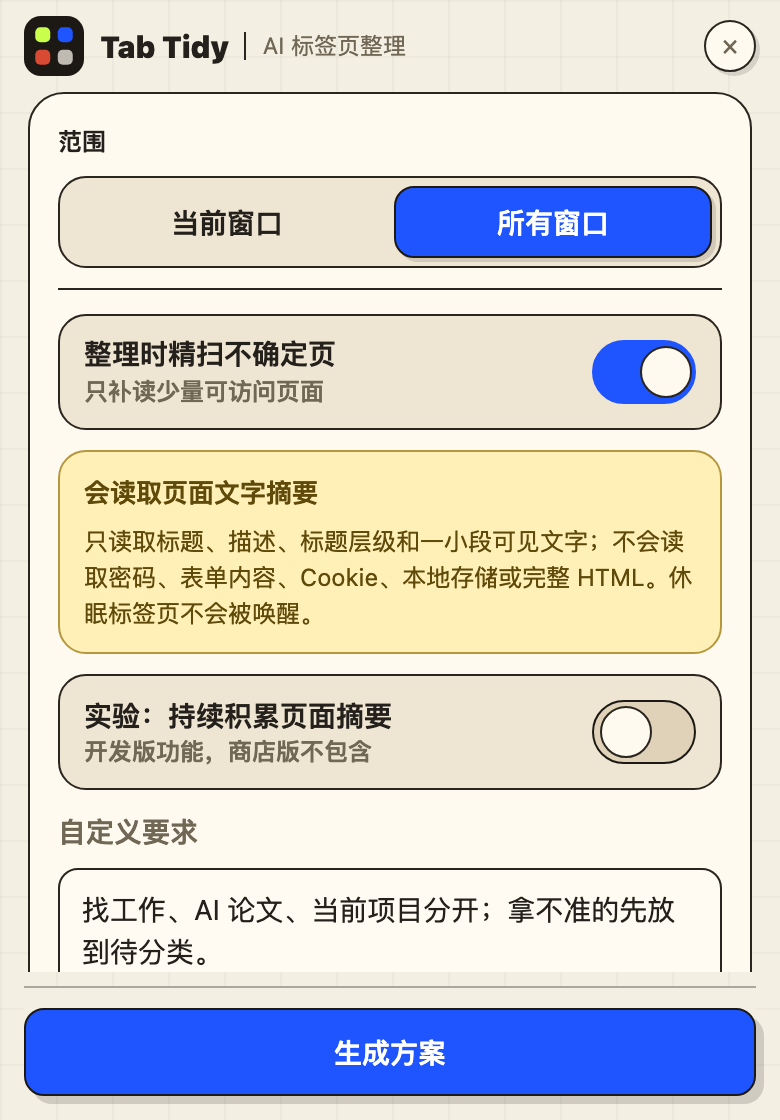
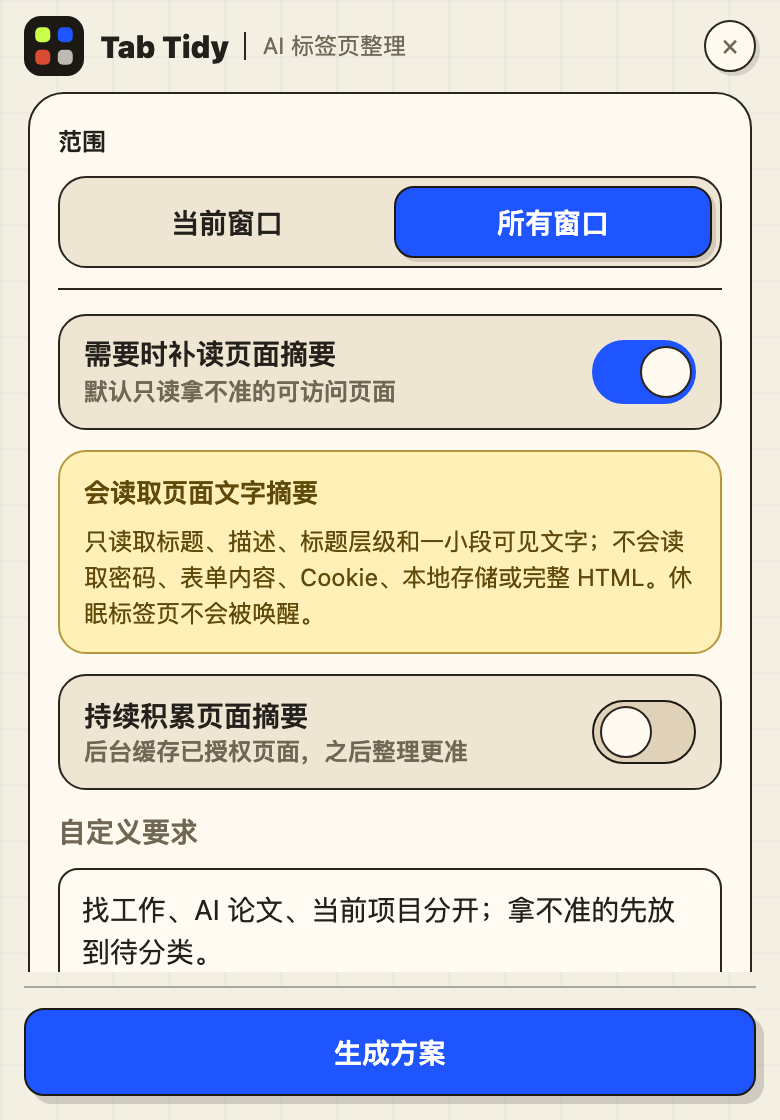
fix: make page summary copy product-facing
Replace developer-facing page-summary labels with consumer-facing behavior copy. Clarify that the advanced page-summary control changes the read depth, update progress wording to use 已读, and refresh README screenshots plus smoke coverage so internal build-channel language does not leak into the popup.

Changed region(s): [[0.0923, 0.2812, 0.5231, 0.375], [0.0923, 0.625, 0.6154, 0.6875]]

diff --git a/src/sidepanel/index.html b/src/sidepanel/index.html
@@ -49,8 +49,8 @@
           <div class="preferences-panel">
             <label class="switch-row emphasis-toggle content-access-feature">
               <span>
-                <strong>整理时精扫不确定页</strong>
-                <small>只补读少量可访问页面</small>
+                <strong>需要时补读页面摘要</strong>
+                <small>默认只读拿不准的可访问页面</small>
               </span>
               <input id="ackSampling" type="checkbox" />
             </label>
@@ -60,17 +60,17 @@
               <p>只读取标题、描述、标题层级和一小段可见文字；不会读取密码、表单内容、Cookie、本地存储或完整 HTML。休眠标签页不会被唤醒。</p>
             </div>
 
-            <label class="switch-row emphasis-toggle content-access-feature experimental-toggle">
+            <label class="switch-row emphasis-toggle content-access-feature continuous-summary-toggle">
               <span>
-                <strong>实验：持续积累页面摘要</strong>
-                <small>开发版功能，商店版不包含</small>
+                <strong>持续积累页面摘要</strong>
+                <small>后台缓存已授权页面，之后整理更准</small>
               </span>
               <input id="continuousPageSummaries" type="checkbox" />
             </label>
 
             <div id="continuousSummaryRisk" class="risk content-access-feature" hidden>
-              <strong>实验性长期 agent</strong>
-              <p>开启后会请求一次性网页读取权限。之后只在已授权、未休眠、非无痕页面上静默缓存短摘要；不会主动唤醒大量标签页。</p>
+              <strong>会在后台保存短摘要</strong>
+              <p>开启后会请求一次性网页读取权限；之后只在已授权、未休眠、非无痕页面上保存短摘要，方便下次更快、更准地分类。不会主动唤醒标签页。</p>
             </div>
 
             <div class="field prompt-field">
@@ -154,11 +154,11 @@
         </div>
 
         <div class="field content-access-feature">
-          <label for="pageContextMode">页面摘要范围</label>
+          <label for="pageContextMode">补读范围</label>
           <select id="pageContextMode">
-            <option value="off">关闭</option>
-            <option value="ambiguous_with_permission">只读取不确定页面</option>
-            <option value="all_granted_origins">尽量读取可授权页面</option>
+            <option value="off">不补读页面摘要</option>
+            <option value="ambiguous_with_permission">默认：只读拿不准的页面</option>
+            <option value="all_granted_origins">尽量读取已授权页面</option>
           </select>
         </div>
 

diff --git a/src/core/controller.js b/src/core/controller.js
@@ -637,14 +637,14 @@ async function attachPageSamples(chromeApi, inventory, settings, options = {}) {
   await options.onProgress?.({
     phase: "sampling",
     progress: 20 + Math.round((completed / candidates.length) * 16),
-    message: `正在读取页面摘要 ${completed}/${candidates.length}，已读到 ${sampledOk} 个`
+    message: `正在读取页面摘要 ${completed}/${candidates.length}，已读 ${sampledOk} 个`
   });
 
   const sampleOne = async (tab) => {
     await options.onProgress?.({
       phase: "sampling",
       progress: 20 + Math.round((completed / candidates.length) * 16),
-      message: `正在读取页面摘要 ${completed}/${candidates.length}，已读到 ${sampledOk} 个`
+      message: `正在读取页面摘要 ${completed}/${candidates.length}，已读 ${sampledOk} 个`
     });
     const liveTab = await getLiveTab(chromeApi, tab.tabId);
     const sampleResult = liveTab
@@ -670,7 +670,7 @@ async function attachPageSamples(chromeApi, inventory, settings, options = {}) {
     await options.onProgress?.({
       phase: "sampling",
       progress: 20 + Math.round((completed / candidates.length) * 16),
-      message: `正在读取页面摘要 ${completed}/${candidates.length}，已读到 ${sampledOk} 个`
+      message: `正在读取页面摘要 ${completed}/${candidates.length}，已读 ${sampledOk} 个`
     });
   };
 
@@ -692,8 +692,8 @@ async function attachPageSamples(chromeApi, inventory, settings, options = {}) {
     phase: "sampling",
     progress: 36,
     message: sampledBlocked
-      ? `页面摘要：读到 ${sampledOk}/${candidates.length} 个，${sampledBlocked} 个只参考标题`
-      : `页面摘要：读到 ${sampledOk}/${candidates.length} 个`
+      ? `页面摘要：已读 ${sampledOk}/${candidates.length} 个，${sampledBlocked} 个只参考标题`
+      : `页面摘要：已读 ${sampledOk}/${candidates.length} 个`
   });
   return inventory;
 }

diff --git a/src/sidepanel/sidepanel.js b/src/sidepanel/sidepanel.js
@@ -555,8 +555,8 @@ function pageSamplingLine(pageSampling, languageMode) {
         ? `Page summaries were read for ${pageSampling.ok}/${pageSampling.requested} tabs; ${missed} used only title and URL signals.`
         : `Page summaries were read for ${pageSampling.ok}/${pageSampling.requested} tabs.`
       : missed
-        ? `页面摘要读到 ${pageSampling.ok}/${pageSampling.requested} 个标签页；${missed} 个只参考标题和网址。`
-        : `页面摘要读到 ${pageSampling.ok}/${pageSampling.requested} 个标签页。`;
+        ? `页面摘要已读 ${pageSampling.ok}/${pageSampling.requested} 个标签页；${missed} 个只参考标题和网址。`
+        : `页面摘要已读 ${pageSampling.ok}/${pageSampling.requested} 个标签页。`;
   return line;
 }
 
@@ -916,7 +916,7 @@ async function ensurePlannerHostPermission(settings) {
 
 async function ensureContinuousSummaryPermissions() {
   if (!hasContentAccessFeature()) {
-    throw new Error("当前构建不包含实验性页面摘要缓存。");
+    throw new Error("当前版本不支持持续积累页面摘要。");
   }
   if (!globalThis.chrome?.permissions?.contains || !globalThis.chrome?.permissions?.request) return;
 
@@ -950,7 +950,7 @@ async function ensurePageSamplingPermissions(settings, options = {}) {
 
   if (!requestMissing) {
     if (missingPermissions.length) {
-      throw new Error("需要先打开「参考页面短摘要」并完成授权，才能读取页面摘要。");
+      throw new Error("需要先打开「需要时补读页面摘要」并完成授权，才能读取页面摘要。");
     }
     return;
   }